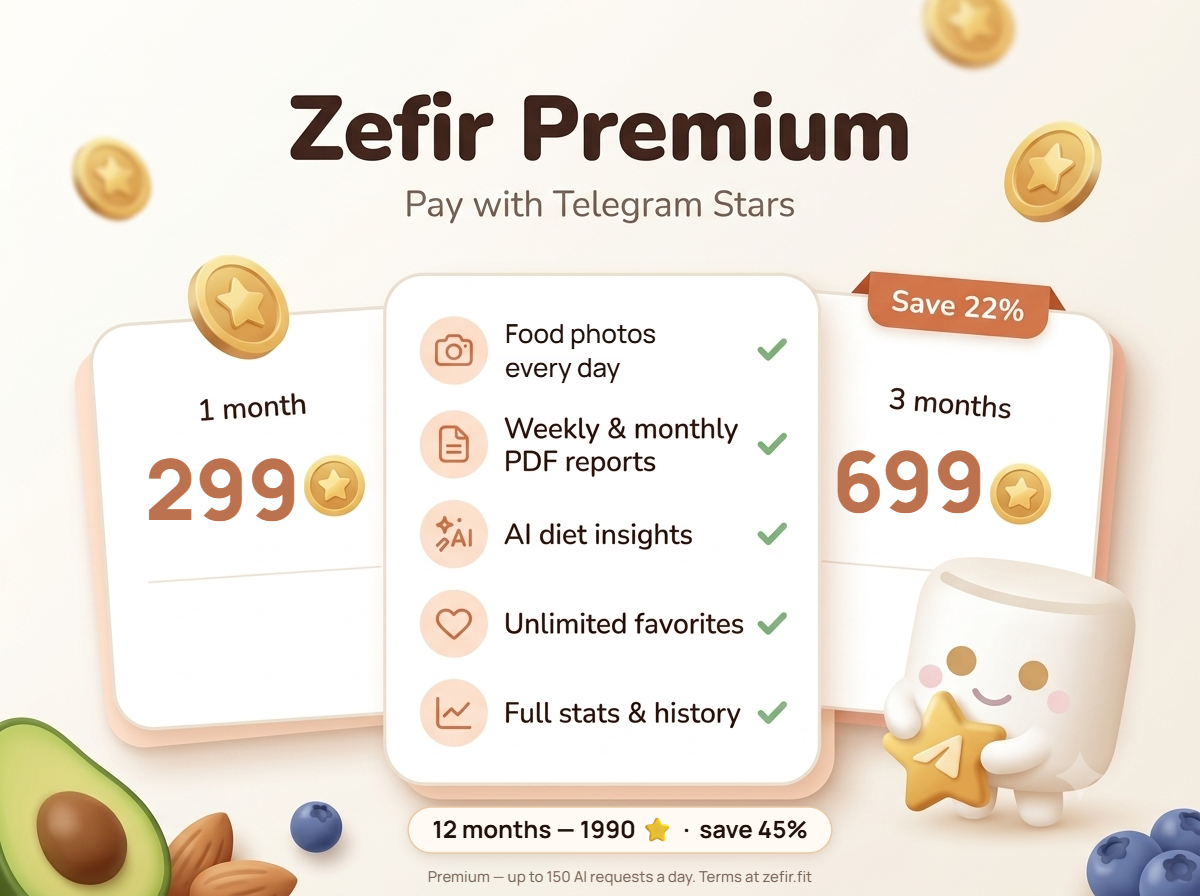
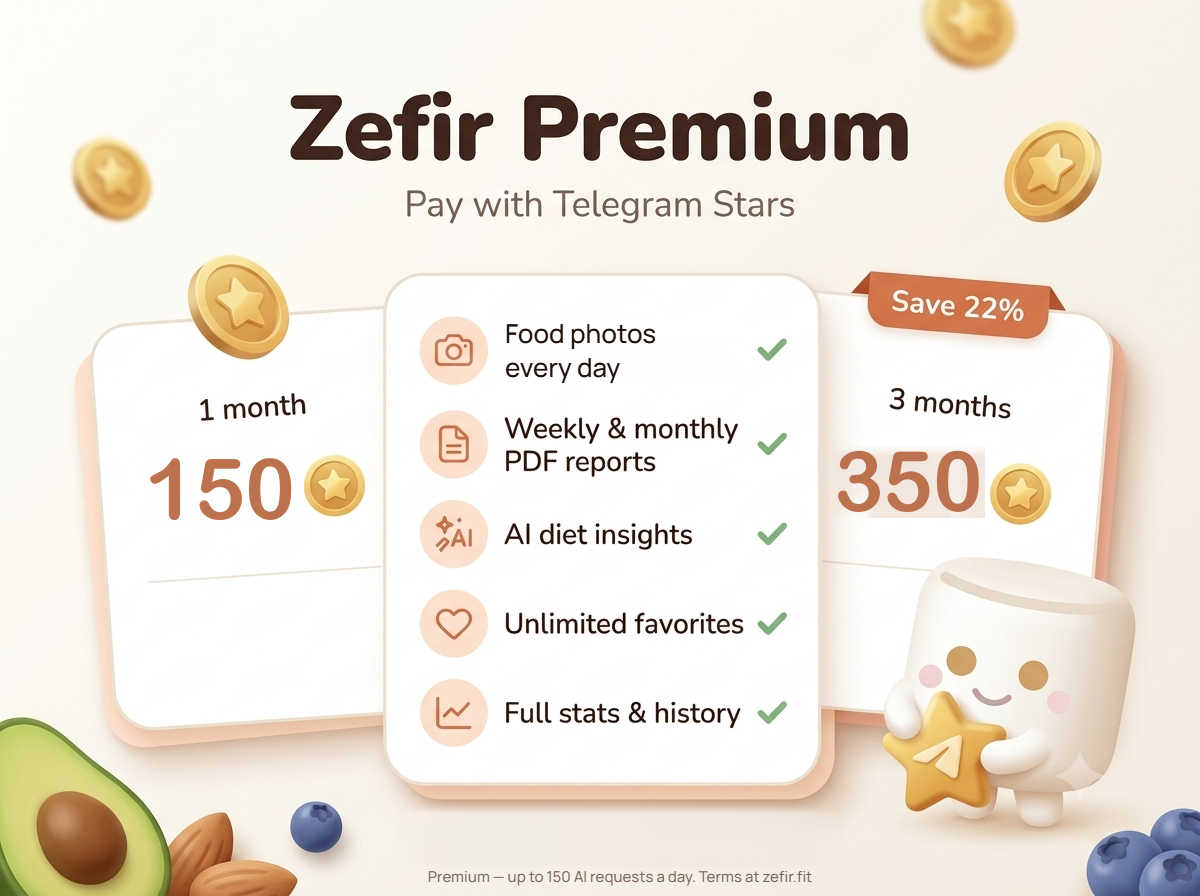
feat(et-128): Premium back to 150/350 stars, year plan archived

Changed region(s): [[0.3392, 0.875, 0.7092, 0.9375], [0.6783, 0.5, 0.8325, 0.5938], [0.1233, 0.5, 0.2467, 0.5938]]

diff --git a/src/test/java/com/kuklin/manageapp/common/telegram/config/BotUpdateExecutorConfigTest.java b/src/test/java/com/kuklin/manageapp/common/telegram/config/BotUpdateExecutorConfigTest.java
@@ -1,10 +1,15 @@
 package com.kuklin.manageapp.common.telegram.config;
 
+import com.kuklin.manageapp.common.logging.LogContext;
+import com.kuklin.manageapp.common.logging.MdcTaskDecorator;
 import org.junit.jupiter.api.Test;
+import org.slf4j.MDC;
 import org.springframework.boot.autoconfigure.AutoConfigurations;
 import org.springframework.boot.autoconfigure.task.TaskExecutionAutoConfiguration;
 import org.springframework.boot.test.context.runner.ApplicationContextRunner;
 import org.springframework.scheduling.concurrent.ThreadPoolTaskExecutor;
+
+import java.util.concurrent.atomic.AtomicReference;
 
 import static org.assertj.core.api.Assertions.assertThat;
 
@@ -17,7 +22,27 @@ class BotUpdateExecutorConfigTest {
 
     private final ApplicationContextRunner runner = new ApplicationContextRunner()
             .withConfiguration(AutoConfigurations.of(TaskExecutionAutoConfiguration.class))
-            .withUserConfiguration(BotUpdateExecutorConfig.class);
+            .withUserConfiguration(BotUpdateExecutorConfig.class, MdcTaskDecorator.class);
+
+    // Контекст логов (MDC) переезжает в оба пула: в пул апдейтов — через BotUpdateExecutorConfig,
+    // в общий пул @Async — Spring Boot сам применяет бин TaskDecorator
+    @Test
+    void bothExecutorsCarryLogContext() {
+        runner.withPropertyValues("spring.task.execution.mode=force")
+                .run(context -> {
+                    for (String name : new String[]{"applicationTaskExecutor", BotUpdateExecutorConfig.BOT_UPDATE_EXECUTOR}) {
+                        ThreadPoolTaskExecutor executor = context.getBean(name, ThreadPoolTaskExecutor.class);
+                        AtomicReference<String> inTask = new AtomicReference<>();
+                        MDC.put(LogContext.KEY, "[CALORIE_BOT tg=1 upd=2]");
+                        try {
+                            executor.submit(() -> inTask.set(MDC.get(LogContext.KEY))).get();
+                        } finally {
+                            MDC.clear();
+                        }
+                        assertThat(inTask.get()).as(name).isEqualTo("[CALORIE_BOT tg=1 upd=2]");
+                    }
+                });
+    }
 
     @Test
     void bothExecutorsExistInForceMode() {

diff --git a/src/main/java/com/kuklin/manageapp/bots/caloriebot/subscription/telegram/PremiumOfferButtons.java b/src/main/java/com/kuklin/manageapp/bots/caloriebot/subscription/telegram/PremiumOfferButtons.java
@@ -21,7 +21,7 @@ import java.util.List;
 
 /**
  * Кнопки предложения Premium — одни и те же в тарифах, «Premium закончился», «скоро закончится» и лимитах:
- * тарифы с ценой и выгодой на кнопке, «💎 Premium — от 299 ⭐» (открывает тарифы) и «🎁 Бесплатно — позвать
+ * тарифы с ценой и выгодой на кнопке, «💎 Premium — от 150 ⭐» (открывает тарифы) и «🎁 Бесплатно — позвать
  * друга» (экран приглашений).
  */
 @Component
@@ -39,7 +39,7 @@ public class PremiumOfferButtons {
                 .toList();
     }
 
-    /** «1 месяц — 299 ⭐», «3 месяца — 699 ⭐ · −22%»: выгода — к самому короткому тарифу в той же валюте. */
+    /** «1 месяц — 150 ⭐», «3 месяца — 350 ⭐ · −22%»: выгода — к самому короткому тарифу в той же валюте. */
     public List<InlineKeyboardButton> buildPlanButtons(AppLanguage language) {
         List<PricingPlan> plans = findPlansForSale();
         return plans.stream()
@@ -58,12 +58,12 @@ public class PremiumOfferButtons {
                 : texts.get(language, BotTextKeys.PAYMENT_PLAN_BUTTON_SAVING, duration, price, saving);
     }
 
-    /** «💎 Premium — от 299 ⭐» → тарифы; без тарифов в продаже — «💎 Тарифы». */
+    /** «💎 Premium — от 150 ⭐» → тарифы; без тарифов в продаже — «💎 Тарифы». */
     public InlineKeyboardButton buildPremiumButton(AppLanguage language) {
         return buildPlansButton(language, BotTextKeys.PAYMENT_BUTTON_PREMIUM_FROM);
     }
 
-    /** «💎 Продлить — от 299 ⭐» → тарифы: Premium ещё действует. */
+    /** «💎 Продлить — от 150 ⭐» → тарифы: Premium ещё действует. */
     public InlineKeyboardButton buildExtendButton(AppLanguage language) {
         return buildPlansButton(language, BotTextKeys.PAYMENT_BUTTON_EXTEND_FROM);
     }

diff --git a/src/main/java/com/kuklin/manageapp/bots/caloriebot/subscription/telegram/PaymentPlanListCalorieUpdateHandler.java b/src/main/java/com/kuklin/manageapp/bots/caloriebot/subscription/telegram/PaymentPlanListCalorieUpdateHandler.java
@@ -79,7 +79,7 @@ public class PaymentPlanListCalorieUpdateHandler implements CalorieBotUpdateHand
                 buildOfferKeyboard(language), null);
     }
 
-    /** «💎 Premium — от 299 ⭐», «🎁 Бесплатно — позвать друга», «Закрыть». */
+    /** «💎 Premium — от 150 ⭐», «🎁 Бесплатно — позвать друга», «Закрыть». */
     InlineKeyboardMarkup buildOfferKeyboard(AppLanguage language) {
         return TelegramKeyboard.builder()
                 .row(premiumOfferButtons.buildPremiumButton(language))

diff --git a/src/main/java/com/kuklin/manageapp/bots/caloriebot/access/telegram/FeatureLimitNotifier.java b/src/main/java/com/kuklin/manageapp/bots/caloriebot/access/telegram/FeatureLimitNotifier.java
@@ -90,7 +90,7 @@ public class FeatureLimitNotifier {
         };
     }
 
-    /** «💎 Premium — от 299 ⭐» и «🎁 Бесплатно — позвать друга». */
+    /** «💎 Premium — от 150 ⭐» и «🎁 Бесплатно — позвать друга». */
     private InlineKeyboardMarkup getSubscriptionKeyboard(AppLanguage language) {
         return TelegramKeyboard.builder()
                 .row(premiumOfferButtons.buildPremiumButton(language))

diff --git a/src/main/java/com/kuklin/manageapp/bots/caloriebot/CHANGELOG.md b/src/main/java/com/kuklin/manageapp/bots/caloriebot/CHANGELOG.md
@@ -1,3 +1,9 @@
+## 0.0.96 (25.11.2026)
+[et-128] — Premium снова дешевле: 150 / 350 ⭐, без годового тарифа
+* Цены как до et-106: Premium Месяц — 150 ⭐, 3 месяца — 350 ⭐ (выгода те же 22%). Меняется price_minor у тех же тарифов CALORIE_PREMIUM_V2_MONTH / _THREE_MONTH — суточный лимит ИИ у них остаётся 150 (старые коды с лимитом 300 не возвращаем). Годовой CALORIE_PREMIUM_V2_YEAR — в ARCHIVED, купленные годовые подписки работают до конца срока (миграция 0.0.78, changeset 81).
+* Кнопки «💎 Premium — от … ⭐» и цены с выгодой на кнопках тарифов берутся из базы — меняются сами.
+* Картинки тарифов (static/images/caloriescreens/price/tarif_ru/en.png): 150 / 350 ⭐, плашки «12 месяцев — 1990 ⭐» больше нет.
+
 ## 0.0.95 (16.11.2026)
 [et-127] — Клетчатка всем, витамины и минералы для Premium, блок «мало / норма / перебор» в PDF-отчёте
 * Зачем: просили считать клетчатку, омега-3, ПНЖК и прочее. Клетчатка по блюду оценивается почти так же надёжно, как углеводы, — её всем. Витамины и минералы по фото — грубая оценка, поэтому только Premium и в отчёте как вывод, а не точная цифра.
